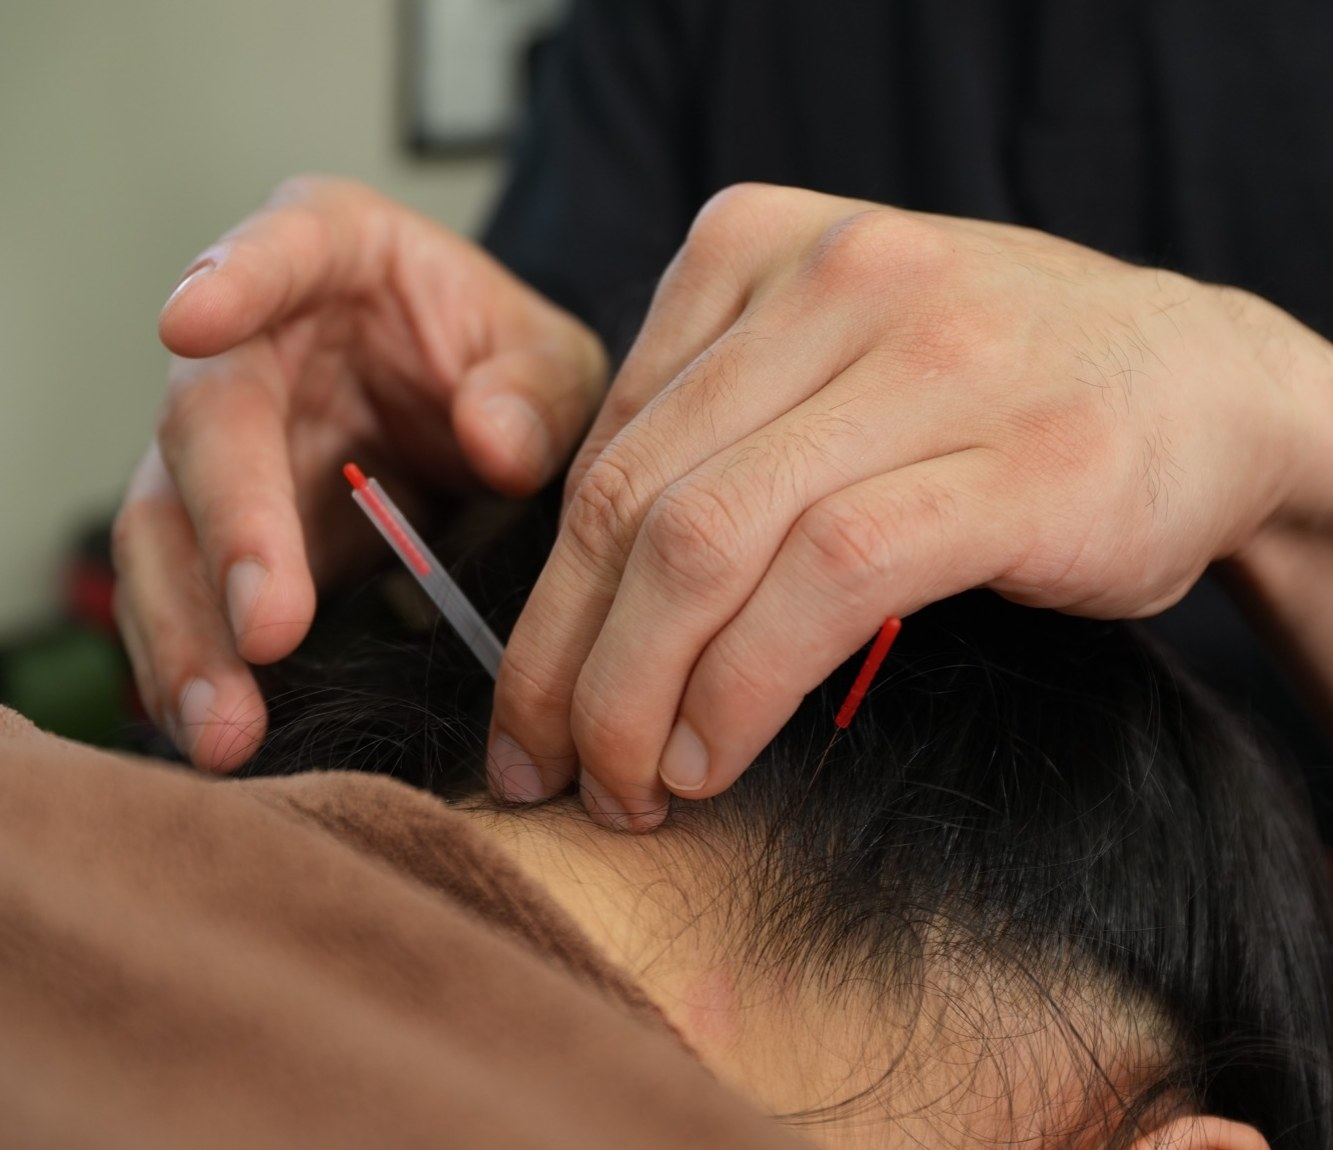
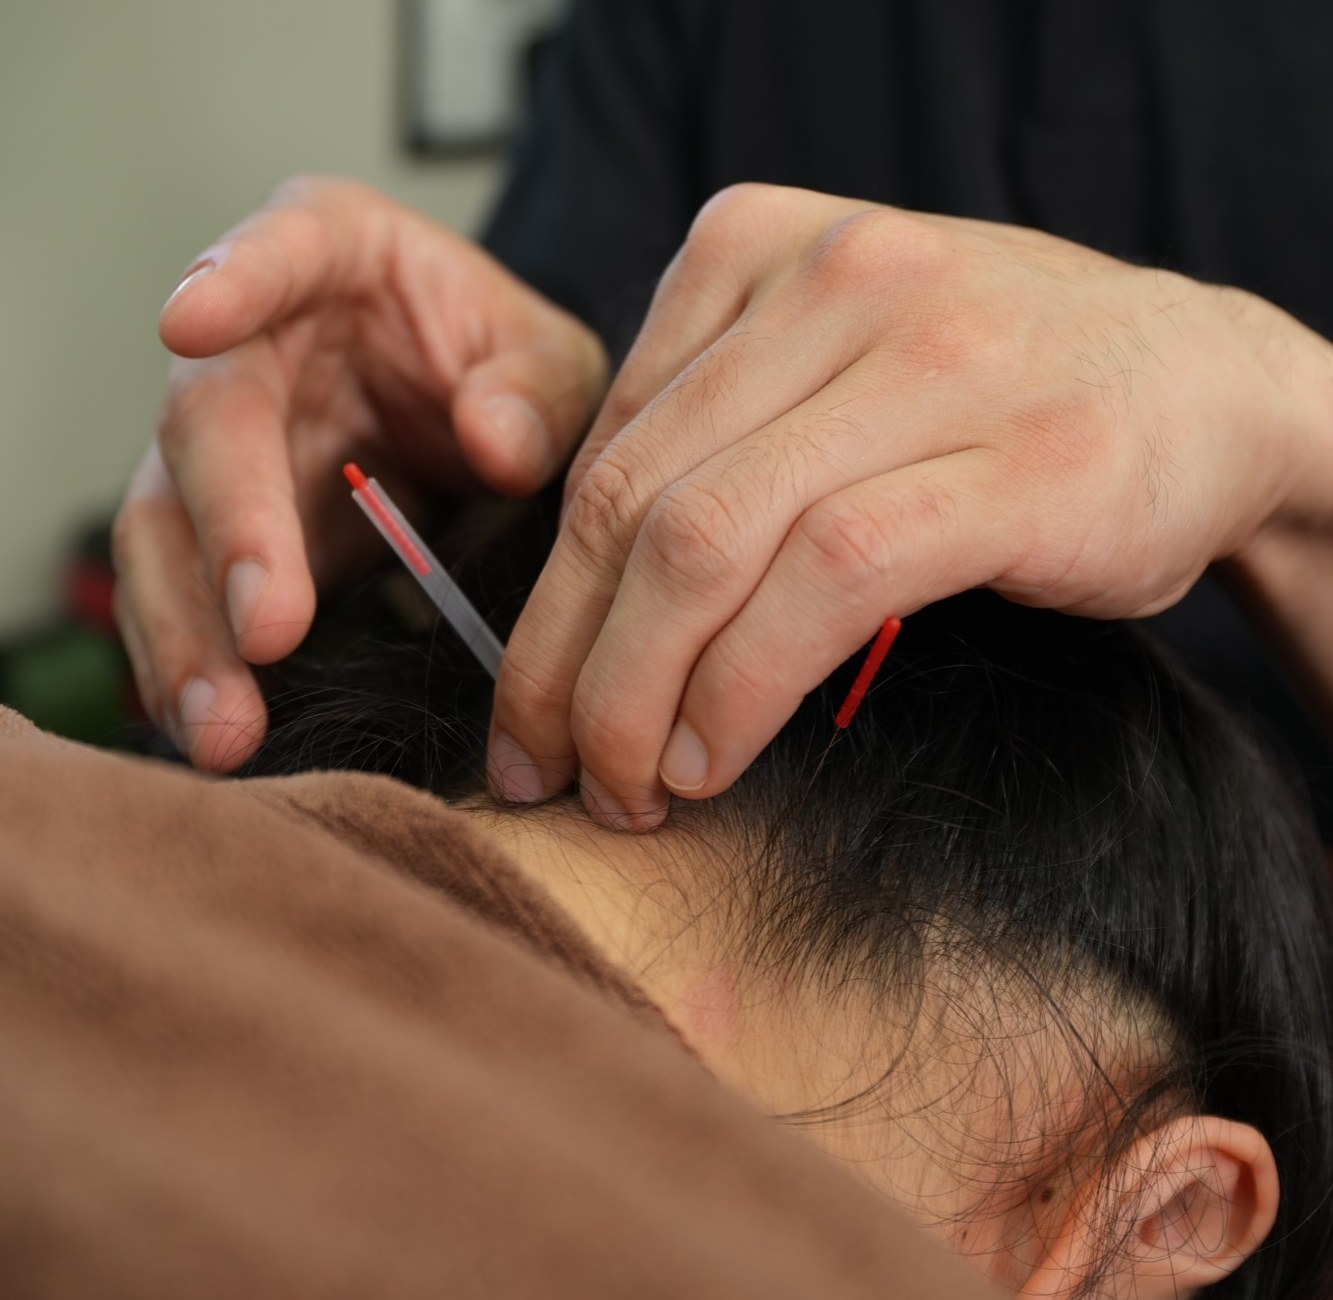
Refine menu photo crops, drop preferred-date booking, tighten hero copy
Re-crops the acupuncture, taping, and personal-training photos to keep
the actual treatment/action in frame instead of empty background.
Removes the reservation date picker end-to-end: the contact form field,
its server-side closed-dates validation, the email summary line, and
the now-unused admin closed-dates manager (component, actions, and
schema table). Also wraps the homepage banner title onto two lines on
mobile so it doesn't get too small, keeping the desktop layout as-is.

diff --git a/src/components/contact/ContactForm.tsx b/src/components/contact/ContactForm.tsx
@@ -13,7 +13,6 @@ type InquiryType = "reservation" | "general";
 type FormState = {
   inquiryType: InquiryType;
   serviceSlug: string;
-  preferredDate: string;
   name: string;
   email: string;
   phone: string;
@@ -21,7 +20,7 @@ type FormState = {
   website: string;
 };
 
-export function ContactForm({ closedDates = [] }: { closedDates?: string[] }) {
+export function ContactForm() {
   const searchParams = useSearchParams();
   const presetSlug = searchParams.get("service");
   const presetService = presetSlug ? getServiceBySlug(presetSlug) : undefined;
@@ -30,7 +29,6 @@ export function ContactForm({ closedDates = [] }: { closedDates?: string[] }) {
   const [form, setForm] = useState<FormState>({
     inquiryType: presetValid ? "reservation" : "general",
     serviceSlug: presetValid && presetSlug ? presetSlug : "",
-    preferredDate: "",
     name: "",
     email: "",
     phone: "",
@@ -42,8 +40,6 @@ export function ContactForm({ closedDates = [] }: { closedDates?: string[] }) {
   const [submitting, setSubmitting] = useState(false);
   const [submitError, setSubmitError] = useState<string | null>(null);
 
-  const needsDate = form.inquiryType === "reservation" && form.serviceSlug !== "team-support";
-
   async function handleSubmit(e: FormEvent) {
     e.preventDefault();
     const nextErrors: typeof errors = {};
@@ -52,9 +48,6 @@ export function ContactForm({ closedDates = [] }: { closedDates?: string[] }) {
       nextErrors.email = "メールアドレスの形式が正しくありません";
     if (form.inquiryType === "reservation" && !form.serviceSlug)
       nextErrors.serviceSlug = "ご希望のメニューを選択してください";
-    if (needsDate && !form.preferredDate) nextErrors.preferredDate = "ご希望日を選択してください";
-    if (needsDate && form.preferredDate && closedDates.includes(form.preferredDate))
-      nextErrors.preferredDate = "その日は休業日です。別の日をお選びください";
     if (!form.message.trim()) nextErrors.message = "お問い合わせ内容を入力してください";
     setErrors(nextErrors);
     if (Object.keys(nextErrors).length > 0) return;
@@ -131,13 +124,7 @@ export function ContactForm({ closedDates = [] }: { closedDates?: string[] }) {
           <label className="text-sm font-medium text-slate-700">ご希望のメニュー</label>
           <select
             value={form.serviceSlug}
-            onChange={(e) =>
-              setForm((f) => ({
-                ...f,
-                serviceSlug: e.target.value,
-                preferredDate: e.target.value === "team-support" ? "" : f.preferredDate,
-              }))
-            }
+            onChange={(e) => setForm((f) => ({ ...f, serviceSlug: e.target.value }))}
             className="rounded-lg border border-slate-200 px-3 py-2 text-sm focus:border-teal-600 focus:outline-none"
           >
             <option value="">選択してください</option>
@@ -150,21 +137,6 @@ export function ContactForm({ closedDates = [] }: { closedDates?: string[] }) {
           </select>
           {errors.serviceSlug && (
             <span className="text-xs text-red-500">{errors.serviceSlug}</span>
-          )}
-        </div>
-      )}
-
-      {needsDate && (
-        <div className="flex flex-col gap-1.5">
-          <label className="text-sm font-medium text-slate-700">ご希望日</label>
-          <input
-            type="date"
-            value={form.preferredDate}
-            onChange={(e) => setForm((f) => ({ ...f, preferredDate: e.target.value }))}
-            className="rounded-lg border border-slate-200 px-3 py-2 text-sm focus:border-teal-600 focus:outline-none"
-          />
-          {errors.preferredDate && (
-            <span className="text-xs text-red-500">{errors.preferredDate}</span>
           )}
         </div>
       )}

diff --git a/src/app/admin/page.tsx b/src/app/admin/page.tsx
@@ -5,7 +5,6 @@ import { SectionHeading } from "@/components/ui/SectionHeading";
 import { LoginForm } from "@/components/admin/LoginForm";
 import { SetupForm } from "@/components/admin/SetupForm";
 import { InquiriesTable, type Inquiry } from "@/components/admin/InquiriesTable";
-import { ClosedDatesManager, type ClosedDate } from "@/components/admin/ClosedDatesManager";
 import { ADMIN_SESSION_COOKIE, isValidSession } from "@/lib/admin-auth";
 import { createAdminClient } from "@/lib/supabase/admin";
 import { logout } from "./actions";
@@ -68,11 +67,6 @@ export default async function AdminPage() {
     });
   const general = inquiries.filter((i) => i.inquiry_type === "general");
 
-  const { data: closedDatesData } = await supabase
-    .from("closed_dates")
-    .select("date, reason")
-    .order("date", { ascending: true });
-
   return (
     <div className="py-16">
       <Container className="flex flex-col gap-12">
@@ -89,11 +83,6 @@ export default async function AdminPage() {
         </div>
 
         <div className="flex flex-col gap-6">
-          <h2 className="text-lg font-bold text-slate-900">休業日の設定</h2>
-          <ClosedDatesManager closedDates={(closedDatesData as ClosedDate[]) ?? []} />
-        </div>
-
-        <div className="flex flex-col gap-6 border-t border-slate-100 pt-12">
           <div>
             <h2 className="text-lg font-bold text-slate-900">
               ご予約

diff --git a/src/app/contact/page.tsx b/src/app/contact/page.tsx
@@ -3,24 +3,13 @@ import { Mail, Phone, MapPin } from "lucide-react";
 import { Container } from "@/components/ui/Container";
 import { SectionHeading } from "@/components/ui/SectionHeading";
 import { ContactForm } from "@/components/contact/ContactForm";
-import { createAdminClient } from "@/lib/supabase/admin";
 
 export const metadata: Metadata = {
   title: "お問い合わせ・予約 | 渡邊 将人 コンディショニング",
   description: "ご予約やサービス内容に関するご質問など、こちらのフォームからお気軽にお問い合わせください。",
 };
 
-export default async function ContactPage() {
-  const supabase = createAdminClient();
-  const today = new Date().toISOString().slice(0, 10);
-  const { data } = await supabase
-    .from("closed_dates")
-    .select("date")
-    .gte("date", today)
-    .order("date", { ascending: true });
-
-  const closedDates = (data ?? []).map((d) => d.date as string);
-
+export default function ContactPage() {
   return (
     <div className="py-16">
       <Container className="grid gap-12 lg:grid-cols-[minmax(0,1fr)_minmax(0,1.4fr)]">
@@ -51,7 +40,7 @@ export default async function ContactPage() {
         </div>
 
         <div className="rounded-3xl border border-slate-200 bg-white p-6 sm:p-10">
-          <ContactForm closedDates={closedDates} />
+          <ContactForm />
         </div>
       </Container>
     </div>

diff --git a/src/app/contact/actions.ts b/src/app/contact/actions.ts
@@ -9,7 +9,6 @@ const RESUBMIT_COOLDOWN_MS = 60_000;
 export type SubmitInquiryInput = {
   inquiryType: "reservation" | "general";
   serviceSlug: string;
-  preferredDate: string;
   name: string;
   email: string;
   phone: string;
@@ -42,23 +41,7 @@ export async function submitInquiry(input: SubmitInquiryInput) {
     }
   }
 
-  const needsDate = input.inquiryType === "reservation" && input.serviceSlug !== "team-support";
-
   const supabase = createAdminClient();
-
-  if (needsDate && input.preferredDate) {
-    const { data: closed } = await supabase
-      .from("closed_dates")
-      .select("date")
-      .eq("date", input.preferredDate)
-      .maybeSingle();
-    if (closed) {
-      return {
-        success: false as const,
-        message: "その日は休業日です。別の日をお選びください。",
-      };
-    }
-  }
 
   const { data: recent } = await supabase
     .from("inquiries")
@@ -77,7 +60,6 @@ export async function submitInquiry(input: SubmitInquiryInput) {
   const { error } = await supabase.from("inquiries").insert({
     inquiry_type: input.inquiryType,
     service_slug: input.serviceSlug || null,
-    preferred_date: needsDate ? input.preferredDate || null : null,
     name: input.name,
     email: input.email,
     phone: input.phone || null,

diff --git a/src/lib/mail.ts b/src/lib/mail.ts
@@ -16,23 +16,11 @@ function getTransporter() {
 export type InquiryMailInput = {
   inquiryType: "reservation" | "general";
   serviceSlug: string;
-  preferredDate: string;
   name: string;
   email: string;
   phone: string;
   message: string;
 };
-
-function formatPreferredDate(dateStr: string): string {
-  if (!dateStr) return "";
-  const date = new Date(`${dateStr}T00:00:00`);
-  return date.toLocaleDateString("ja-JP", {
-    year: "numeric",
-    month: "long",
-    day: "numeric",
-    weekday: "short",
-  });
-}
 
 function buildSummaryLines(input: InquiryMailInput): string[] {
   const service = input.serviceSlug ? getServiceBySlug(input.serviceSlug) : undefined;
@@ -40,9 +28,6 @@ function buildSummaryLines(input: InquiryMailInput): string[] {
     `種別: ${input.inquiryType === "reservation" ? "ご予約" : "ご相談・その他のお問い合わせ"}`,
   ];
   if (service) lines.push(`メニュー: ${service.name}`);
-  if (input.inquiryType === "reservation" && input.preferredDate) {
-    lines.push(`ご希望日: ${formatPreferredDate(input.preferredDate)}`);
-  }
   lines.push(`お名前: ${input.name}`);
   lines.push(`メール: ${input.email}`);
   if (input.phone) lines.push(`電話番号: ${input.phone}`);

diff --git a/src/components/marketing/ProfileSummary.tsx b/src/components/marketing/ProfileSummary.tsx
@@ -19,8 +19,11 @@ export function ProfileSummary() {
         />
         <div className="absolute inset-0 bg-gradient-to-t from-black/70 via-black/20 to-black/40" />
         <div className="absolute inset-0 flex items-center justify-center px-6 text-center">
-          <h2 className="text-3xl font-black tracking-wide text-white [text-shadow:0_4px_24px_rgba(0,0,0,0.85),0_2px_6px_rgba(0,0,0,0.7)] sm:text-5xl lg:text-6xl">
-            {profile.story.title}
+          <h2 className="text-2xl font-black tracking-wide text-white [text-shadow:0_4px_24px_rgba(0,0,0,0.85),0_2px_6px_rgba(0,0,0,0.7)] sm:text-5xl lg:text-6xl">
+            幅広く、深く。
+            <br className="sm:hidden" />
+            <span className="hidden sm:inline"> </span>
+            選手を支えるトレーナー
           </h2>
         </div>
         <div className="absolute inset-x-0 bottom-0 p-6 sm:p-10">

diff --git a/src/app/admin/actions.ts b/src/app/admin/actions.ts
@@ -102,23 +102,3 @@ export async function updateInquiryStatus(id: string, status: "new" | "contacted
   const supabase = createAdminClient();
   await supabase.from("inquiries").update({ status }).eq("id", id);
 }
-
-export async function addClosedDate(date: string, reason: string) {
-  if (!date) {
-    return { success: false as const, message: "日付を選択してください" };
-  }
-  const supabase = createAdminClient();
-  const { error } = await supabase
-    .from("closed_dates")
-    .upsert({ date, reason: reason.trim() || null });
-
-  if (error) {
-    return { success: false as const, message: "追加に失敗しました" };
-  }
-  return { success: true as const };
-}
-
-export async function removeClosedDate(date: string) {
-  const supabase = createAdminClient();
-  await supabase.from("closed_dates").delete().eq("date", date);
-}
